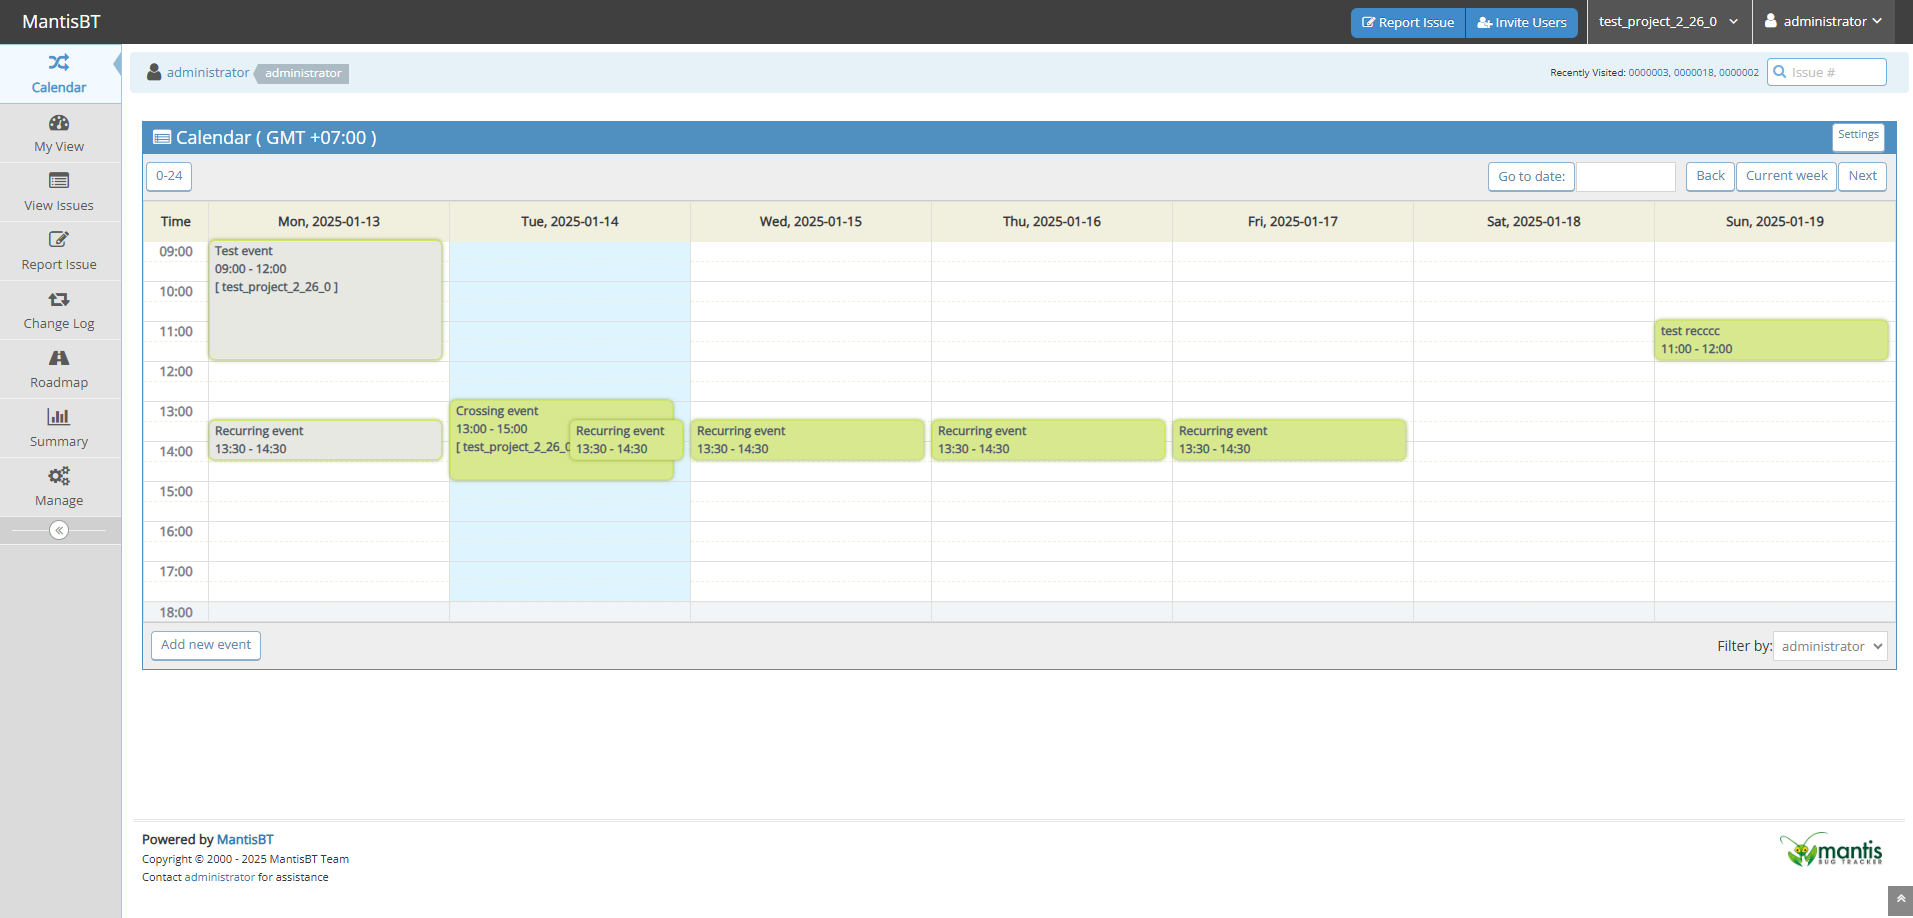
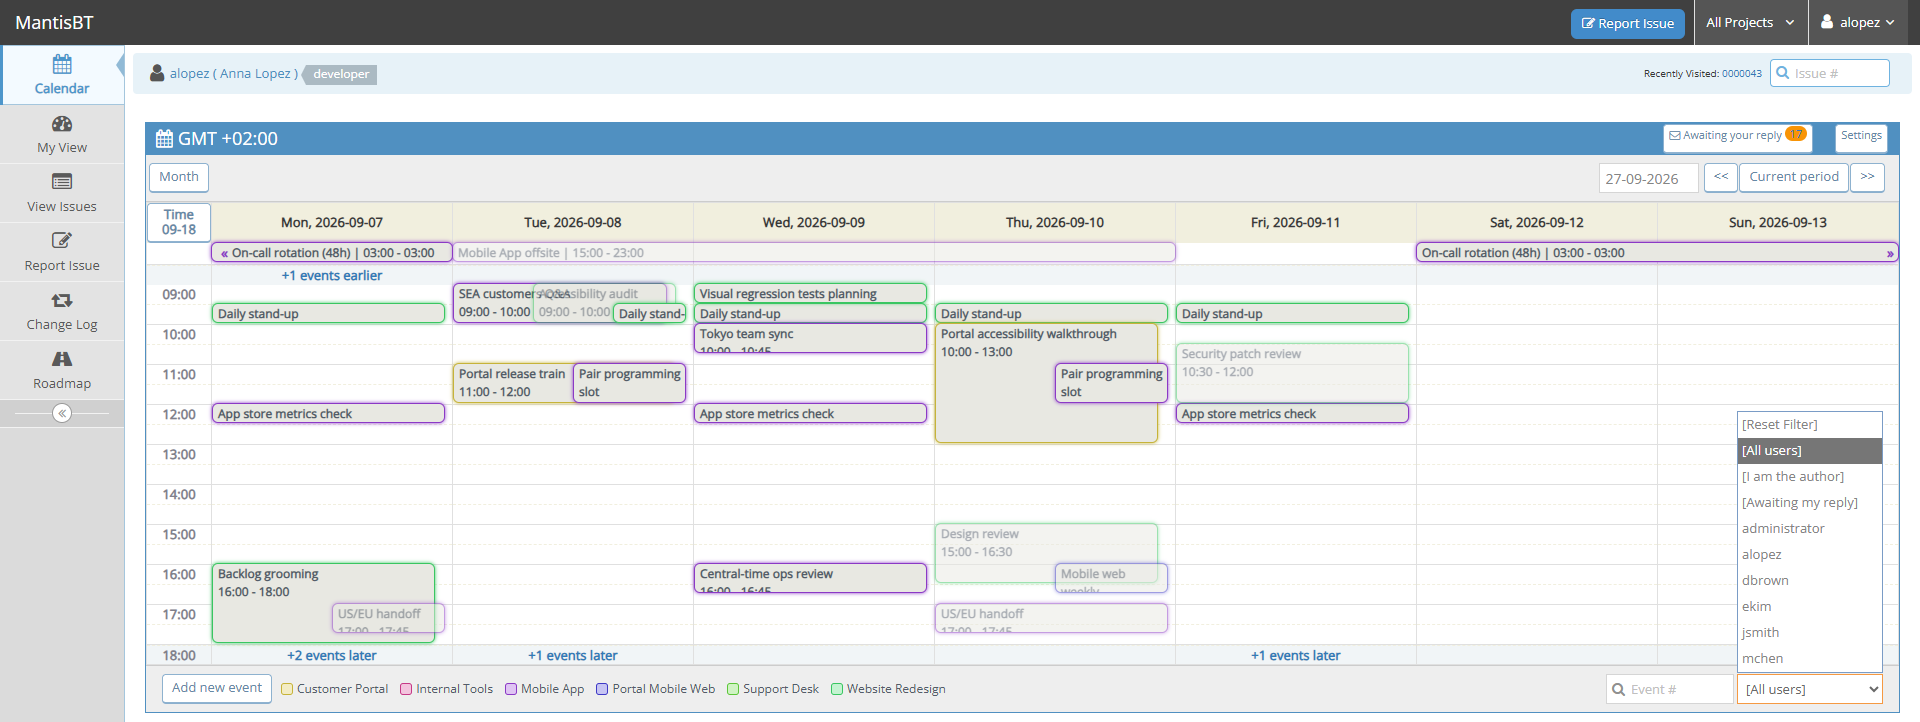
Refresh the screenshots for 3.0.0
Retake the week view, the issue page block and the event form, and add
the month view with its day list, the time range selection, multi-day
bands, the time zone selector, a recurring event with its time zone, the
event page with its reminders and history, and the calendar tab of the
account.

diff --git a/README.md b/README.md
@@ -9,59 +9,27 @@ Adds the task scheduling function in MantisBT based on the calendar of events wi
 Screenshots
 -----------
 
-![alt text](doc/main_view_with_filter_list.png)
+![Week view with the user filter list opened](doc/main_view_with_filter_list.png)
 
-<!-- SCREENSHOT PLACEHOLDER (3.0.0): month view.
-     Calendar page with ?view=month, a month with events on several days,
-     including a day that shows the "+N more" indicator.
-     Save as doc/month_view.png and uncomment the line below.
-![alt text](doc/month_view.png)
--->
+![Month view with the +N more indicator](doc/month_view.png)
 
-<!-- SCREENSHOT PLACEHOLDER (3.0.0): day modal of the month view.
-     The modal opened from a day header, listing the events of that day.
-     Save as doc/month_view_day_modal.png and uncomment the line below.
-![alt text](doc/month_view_day_modal.png)
--->
+![Day modal of the month view listing the events of a day](doc/month_view_day_modal.png)
 
-<!-- SCREENSHOT PLACEHOLDER (3.0.0): time range selection in the week view.
-     A day column with a period selected by dragging, showing the chosen range.
-     Save as doc/week_view_time_range_selection.png and uncomment the line below.
-![alt text](doc/week_view_time_range_selection.png)
--->
+![Selecting a time range in the week view to create an event](doc/week_view_time_range_selection.png)
 
-<!-- SCREENSHOT PLACEHOLDER (3.0.0): multi-day events in the week view.
-     The week grid with two or three multi-day bands above the hourly rows,
-     one of them cut at the edge of the week; events of several projects in
-     their colours and the project legend in the bottom toolbar.
-     Save as doc/week_view_multiday_bands.png and uncomment the line below.
-![alt text](doc/week_view_multiday_bands.png)
--->
+![Multi-day events as bands above the hourly rows of the week view](doc/week_view_multiday_bands.png)
 
-![alt text](doc/view_event_layers_in_bug_view.png)
-![alt text](doc/add_event_view.png)
+![Calendar block with the events of an issue on the issue view page](doc/view_event_layers_in_bug_view.png)
+![New event form](doc/add_event_view.png)
 
-<!-- SCREENSHOT PLACEHOLDER (3.0.0): time zone selector on the event form.
-     The event create or edit page with the time zone select expanded.
-     Save as doc/add_event_timezone_select.png and uncomment the line below.
-![alt text](doc/add_event_timezone_select.png)
--->
+![Time zone selector on the event form](doc/add_event_timezone_select.png)
 
-<!-- SCREENSHOT PLACEHOLDER (3.0.0): event view page of a recurring event.
-     The view page showing the recurrence row and the "Created in timezone" row.
-     Save as doc/view_event_with_timezone.png and uncomment the line below.
-![alt text](doc/view_event_with_timezone.png)
--->
+![Event view page of a recurring event with its time zone](doc/view_event_with_timezone.png)
 
 ![alt text](doc/plugin_config_view.png)
 ![alt text](doc/workflow_thresholds_page.png)
 
-<!-- SCREENSHOT PLACEHOLDER (3.0.0): reminders and notifications of a user.
-     My Account -> "Event calendar" tab with the default reminders and the
-     notification switches.
-     Save as doc/account_event_calendar_tab.png and uncomment the line below.
-![alt text](doc/account_event_calendar_tab.png)
--->
+![Event calendar tab of My Account with reminders and notifications](doc/account_event_calendar_tab.png)
 
 <!-- SCREENSHOT PLACEHOLDER (3.0.0): notification recipient matrix.
      Manage -> Manage Plugins -> Calendar -> notification settings page with
@@ -70,11 +38,7 @@ Screenshots
 ![alt text](doc/notify_config_page.png)
 -->
 
-<!-- SCREENSHOT PLACEHOLDER (3.0.0): event view page with description,
-     reminders and history.
-     Save as doc/view_event_page.png and uncomment the line below.
-![alt text](doc/view_event_page.png)
--->
+![Event view page with description, reminders and history](doc/view_event_page.png)
 
 Features
 --------
